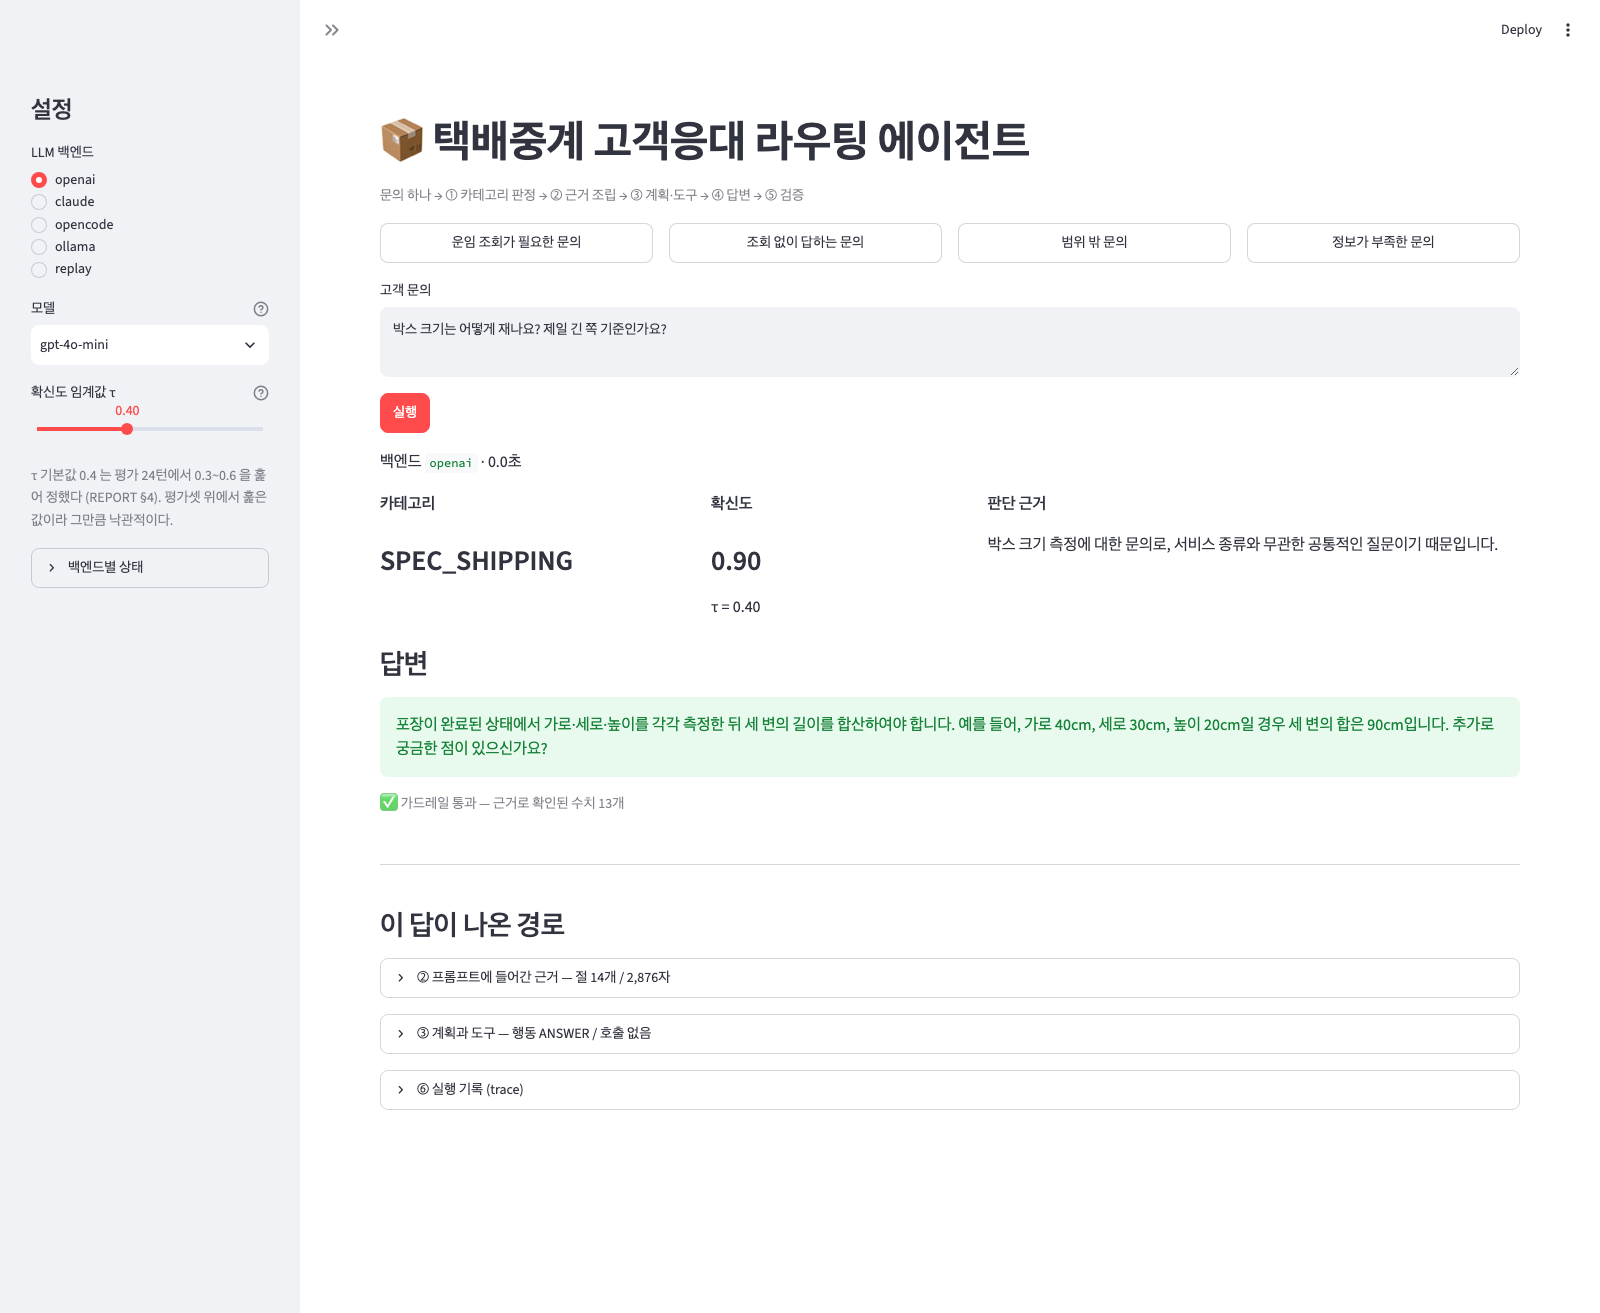
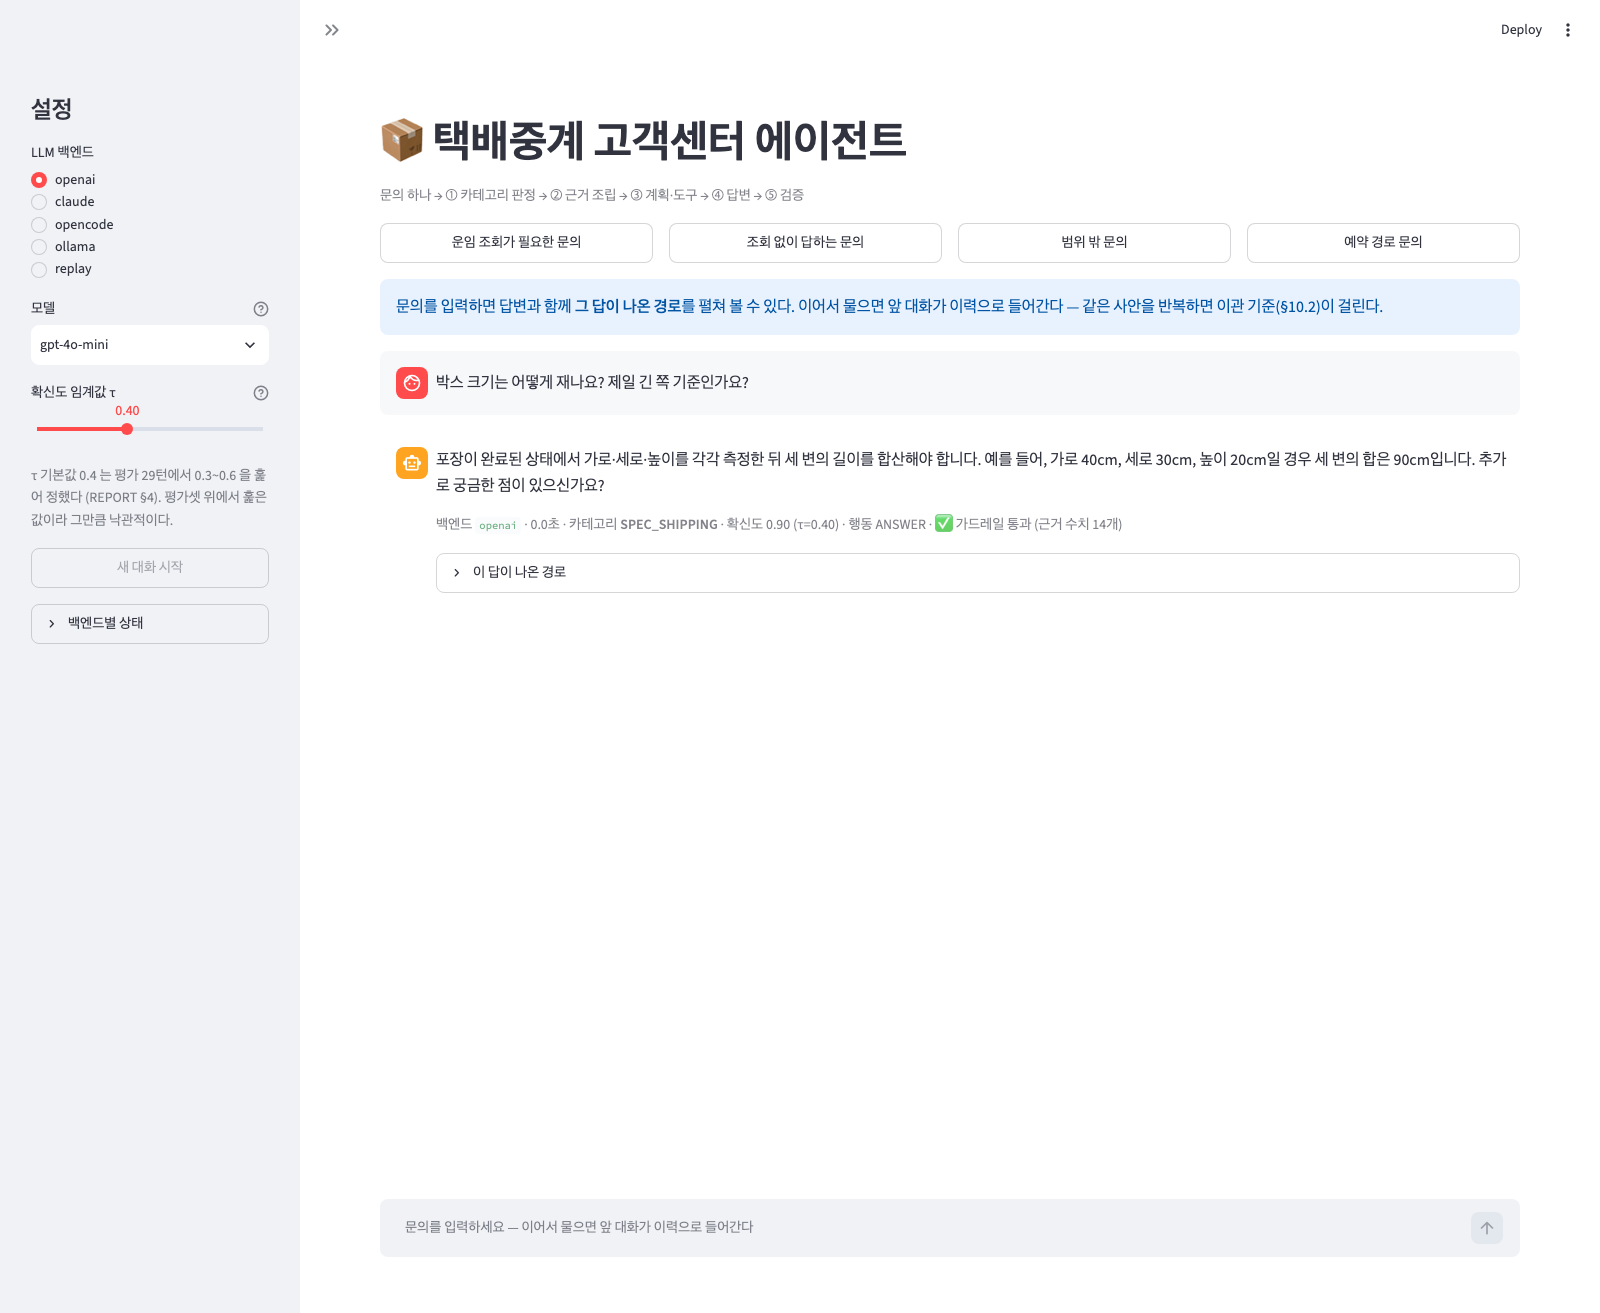
데모를 폼에서 채팅으로 바꾼다
두 번째 문의를 이어가려고 입력 후 실행을 누르면 화면이 통째로 새로 그려지고
방금 친 것이 사라졌다. 한 번 묻고 끝나는 폼에 멀티턴을 얹었기 때문이다.

st.chat_message / st.chat_input 으로 바꿨다. 앞선 턴은 답변과 "이 답이 나온
경로"까지 그대로 남고, 입력창은 아래에 고정되며, 새 답변만 아래에 붙는다.
예시 버튼도 입력창을 채우지 않고 그대로 보낸다 — 채웠다가 지우면 그것도
방금 친 것이 날아간 것처럼 보인다.

"새 대화 시작"은 사이드바로 옮겼다. 본문은 대화만 남는다.

브라우저로 두 턴을 이어 확인했다: 앞 턴이 남고, 후속 발화가 카테고리를 유지하며
(CVS_PICKUP), 캡처 스크립트도 새 화면에서 4장 모두 찍힌다.

diff --git a/app.py b/app.py
@@ -2,7 +2,13 @@
 
 화면의 목적은 "맞는 답을 냈다"가 아니라 **"이 답이 어디서 나왔는지 보인다"** 이다.
 그래서 프롬프트에 실제로 들어간 근거 절, 호출한 도구와 인자, 가드레일 판정을
-answer 옆에 같이 놓는다. 채점자가 한 화면에서 경로를 되짚을 수 있어야 한다.
+답변 바로 아래에 접어 둔다. 채점자가 한 화면에서 경로를 되짚을 수 있어야 한다.
+
+**채팅 화면이다.** 상담은 한 번 묻고 끝나지 않는다. 정책 §10.2 는 같은 사안을
+반복해 묻는 경우를 이관 조건으로 두는데, 매 턴을 첫 문의로 취급하면 그 기준이
+성립할 수가 없다. 앞선 턴은 화면에 그대로 남고 다음 판정의 이력으로 들어간다.
+입력창은 아래에 고정되고, 새 답변만 아래에 붙는다 — 폼처럼 화면이 통째로
+새로 그려지며 방금 친 것이 사라지지 않는다.
 
 폴백으로 돌았으면 숨기지 않고 배지로 드러낸다 (규율 ⑤).
 """
@@ -23,13 +29,13 @@ from routing_agent.tools import tool_menu
 
 load_dotenv()
 
-st.set_page_config(page_title="택배중계 고객응대 에이전트", page_icon="📦", layout="wide")
+st.set_page_config(page_title="택배중계 고객센터 에이전트", page_icon="📦", layout="wide")
 
 EXAMPLES = {
     "운임 조회가 필요한 문의": "롯데택배로 방문택배 보낼 건데 2kg에 60cm 이하예요. 얼마예요?",
     "조회 없이 답하는 문의": "박스 크기는 어떻게 재나요? 제일 긴 쪽 기준인가요?",
     "범위 밖 문의": "혹시 거기 채용 공고 있나요?",
-    "정보가 부족한 문의": "택배비가 얼마인가요?",
+    "예약 경로 문의": "택배 예약 어디서 해요? 처음이라 하나도 모르겠어요.",
 }
 
 
@@ -68,63 +74,127 @@ if choices:
 else:
     st.sidebar.caption("모델 목록을 읽지 못했다 (CLI 없음 또는 오프라인). 이름을 직접 적는다.")
     model = st.sidebar.text_input("모델", value="")
+
 threshold = st.sidebar.slider(
     "확신도 임계값 τ", min_value=0.0, max_value=1.0, value=DEFAULT_THRESHOLD, step=0.05,
     help="판정 확신도가 이 값 아래면 답변을 만들지 않고 담당자에게 넘긴다.",
 )
 st.sidebar.caption(
-    "τ 기본값 0.4 는 평가 24턴에서 0.3~0.6 을 훑어 정했다 (REPORT §4). "
+    "τ 기본값 0.4 는 평가 29턴에서 0.3~0.6 을 훑어 정했다 (REPORT §4). "
     "평가셋 위에서 훑은 값이라 그만큼 낙관적이다."
 )
+
+turns: list[dict] = st.session_state.setdefault("turns", [])
+
+if st.sidebar.button("새 대화 시작", use_container_width=True, disabled=not turns):
+    st.session_state["turns"] = []
+    st.session_state.pop("pending", None)
+    st.rerun()
 
 with st.sidebar.expander("백엔드별 상태"):
     for name in BACKENDS:
         st.write(f"- **{name}** — {status[name] or '사용 가능'}")
 
 
-# ---------------------------------------------------------------- 입력
+# ---------------------------------------------------------------- 머리말
 
 st.title("📦 택배중계 고객센터 에이전트")
 st.caption("문의 하나 → ① 카테고리 판정 → ② 근거 조립 → ③ 계획·도구 → ④ 답변 → ⑤ 검증")
 
-# URL 로도 받는다: ?q=문의&run=1 (&backend=openai)
-# 링크 하나로 같은 화면을 다시 띄울 수 있어야 캡처도 남기고 남에게 보여 주기도 쉽다.
-params = st.query_params
-url_question = params.get("q", "")
-autorun = params.get("run", "") in ("1", "true", "yes")
-if url_question and "question" not in st.session_state:
-    st.session_state["question"] = url_question
-
 cols = st.columns(len(EXAMPLES))
 for col, (label, text) in zip(cols, EXAMPLES.items()):
+    # 예시는 입력창을 채우는 대신 그대로 보낸다. 채워 놓고 지우면 방금 친 것이
+    # 날아간 것처럼 보이기 때문이다.
     if col.button(label, use_container_width=True):
-        st.session_state["question"] = text
+        st.session_state["pending"] = text
 
-# 대화 이력. 정책 §10.2 는 "동일 사안 3회 이상 반복 문의"를 이관 조건으로 두는데,
-# 매 턴을 첫 문의로 취급하면 그 조건이 성립할 수가 없다. 화면도 대화로 이어져야 한다.
-history: list[tuple[str, str]] = st.session_state.setdefault("history", [])
+if not turns:
+    st.info(
+        "문의를 입력하면 답변과 함께 **그 답이 나온 경로**를 펼쳐 볼 수 있다. "
+        "이어서 물으면 앞 대화가 이력으로 들어간다 — 같은 사안을 반복하면 이관 기준(§10.2)이 걸린다."
+    )
 
-if history:
-    with st.expander(f"이전 대화 {len(history) // 2}턴", expanded=True):
-        for role, text in history:
-            st.markdown(("🙋 **고객** — " if role == "customer" else "💬 **상담원** — ") + text)
-    if st.button("새 대화로 시작"):
-        st.session_state["history"] = []
-        st.session_state["question"] = ""
-        st.rerun()
 
-question = st.text_area(
-    "고객 문의" + (" (이어서)" if history else ""),
-    value=st.session_state.get("question", ""), height=90,
-    placeholder="예) 편의점택배로 제주도에 보낼 수 있나요?",
-)
-run = st.button("실행", type="primary", disabled=not question.strip())
+# ---------------------------------------------------------------- 한 턴 그리기
 
-if not (run or (autorun and question.strip())):
+
+def draw_detail(turn: dict) -> None:
+    """이 답이 어디서 나왔는지. 답변 아래에 접어 둔다."""
+    state, route = turn["state"], turn["route"]
+    verdict = state.get("verdict") or {}
+
+    badges = [f"백엔드 `{turn['backend']}`", f"{turn['elapsed']:.1f}초",
+              f"카테고리 **{route}** · 확신도 {turn['confidence']:.2f} (τ={turn['threshold']:.2f})",
+              f"행동 {state.get('action')}"]
+    if turn.get("backend_note"):
+        badges.append(f"⚠ {turn['backend_note']}")
+    if state.get("fallback"):
+        badges.append(f"⚠ **폴백** — `{state['fallback']}` 단계")
+    if verdict.get("ok"):
+        badges.append(f"✅ 가드레일 통과 (근거 수치 {verdict.get('grounded_count', 0)}개)")
+    st.caption(" · ".join(badges))
+    if verdict and not verdict.get("ok"):
+        st.error(f"❌ 근거 없는 수치: {verdict.get('unsupported')}")
+
+    with st.expander("이 답이 나온 경로"):
+        st.markdown(f"**① 판정** — {route} · 확신도 {turn['confidence']:.2f}\n\n{state.get('reason', '')}")
+        if turn["confidence"] < turn["threshold"] and state.get("action") == "ESCALATE":
+            st.info("확신도가 τ 아래라 답변을 만들지 않고 담당자에게 넘겼다.")
+        elif turn["confidence"] < turn["threshold"]:
+            st.info(f"확신도는 τ 아래지만 카테고리가 {route} 라 이관하지 않았다 — "
+                    "범위 밖 문의는 담당자 이관이 아니라 채널 안내로 끝낸다 (정책 §10.1).")
+
+        units = select_units(route)
+        st.markdown(f"**② 근거** — 절 {len(units)}개 / {sum(u.chars for u in units):,}자")
+        for unit in units:
+            with st.expander(f"{unit.title}  ({unit.chars:,}자)"):
+                st.markdown(unit.body)
+
+        st.markdown(f"**③ 계획과 도구** — 행동 {state.get('action')} / 호출 {turn['tools'] or '없음'}")
+        if state.get("ask"):
+            st.write("되물을 항목:", state["ask"])
+        calls = [c for m in state.get("messages", []) if isinstance(m, AIMessage) for c in (m.tool_calls or [])]
+        for call in calls:
+            st.markdown(f"`{call['name']}`")
+            st.json(call["args"])
+        for message in state.get("messages", []):
+            if isinstance(message, ToolMessage):
+                st.markdown(f"↳ `{message.name}` 결과")
+                st.code(str(message.content)[:2000])
+        if not calls:
+            st.caption("도구를 부르지 않았다. 이 카테고리에서 부를 수 있었던 도구:")
+            st.code(tool_menu(route))
+
+        st.markdown("**⑥ 실행 기록 (trace)**")
+        st.json(state.get("trace", []))
+
+
+for past in turns:
+    with st.chat_message("user"):
+        st.write(past["question"])
+    with st.chat_message("assistant"):
+        st.write(past["answer"])
+        draw_detail(past)
+
+
+# ---------------------------------------------------------------- 입력과 실행
+
+# URL 로도 받는다: ?q=문의&run=1 (&backend=openai). 링크 하나로 같은 화면을 다시
+# 띄울 수 있어야 캡처도 남기고 남에게 보여 주기도 쉽다. 새로고침마다 다시 보내지
+# 않도록 한 번만 보낸다.
+params = st.query_params
+if params.get("q") and params.get("run", "") in ("1", "true", "yes") and not st.session_state.get("url_sent"):
+    st.session_state["pending"] = params["q"]
+    st.session_state["url_sent"] = True
+
+typed = st.chat_input("문의를 입력하세요 — 이어서 물으면 앞 대화가 이력으로 들어간다")
+question = typed or st.session_state.pop("pending", None)
+
+if not question:
     st.stop()
 
-
-# ---------------------------------------------------------------- 실행
+with st.chat_message("user"):
+    st.write(question)
 
 try:
     llm = make_llm(choice, model or None, quiet=True)
@@ -132,84 +202,29 @@ except BackendError as exc:
     st.error(f"백엔드를 준비하지 못했다 — {exc}")
     st.stop()
 
+# 앞선 턴이 이력이 된다. 이것이 없으면 §10.2(반복 문의 이관)가 성립하지 않는다.
+history = [(role, text) for past in turns
+           for role, text in (("customer", past["question"]), ("agent", past["answer"]))]
+
 graph = build_graph(llm=llm, threshold=threshold)
-started = time.monotonic()
-with st.spinner(f"{graph.backend_name} 로 파이프라인을 돌리는 중…"):
-    state = graph.invoke(
-        {"question": question, "history": list(history), "messages": [], "trace": []}
-    )
-elapsed = time.monotonic() - started
-
-# 이번 턴을 이력에 쌓는다. 다음 문의는 이 대화의 연장으로 판정된다.
-st.session_state["history"] = [
-    *history, ("customer", question), ("agent", state.get("answer", ""))
-]
-st.session_state["question"] = ""
-
-route = state.get("route", "?")
-confidence = state.get("confidence", 0.0) or 0.0
-verdict = state.get("verdict") or {}
-tools_used = called_tools(state)
-
-badges = [f"백엔드 `{graph.backend_name}`", f"{elapsed:.1f}초"]
-if graph.backend_name != choice:
-    badges.append(f"⚠ `{choice}` 대신 돌았다")
-if state.get("fallback"):
-    badges.append(f"⚠ **폴백** — `{state['fallback']}` 단계")
-st.markdown(" · ".join(badges))
-
-# 1. 판정
-head = st.columns([1.2, 1, 2])
-# st.metric 은 폭이 좁으면 값을 잘라 버린다. 카테고리 이름이 잘리면 화면이
-# 증거 노릇을 못 하므로 텍스트로 쓴다.
-head[0].markdown(f"**카테고리**\n\n### {route}")
-head[1].markdown(f"**확신도**\n\n### {confidence:.2f}\n\nτ = {threshold:.2f}")
-head[2].markdown(f"**판단 근거**\n\n{state.get('reason', '')}")
-# 게이트가 실제로 넘겼을 때만 말한다. OTHER 는 확신도와 무관하게 통과하므로
-# (정책 §10.1 — 범위 밖은 이관이 아니라 채널 안내로 끝낸다) 여기서 걸리지 않는다.
-if confidence < threshold and state.get("action") == "ESCALATE":
-    st.info(f"확신도 {confidence:.2f} 가 τ={threshold:.2f} 아래라 답변을 만들지 않고 담당자에게 넘겼다.")
-elif confidence < threshold:
-    st.info(
-        f"확신도 {confidence:.2f} 는 τ 아래지만 카테고리가 {route} 라 이관하지 않았다 — "
-        "범위 밖 문의는 담당자 이관이 아니라 채널 안내로 끝낸다 (정책 §10.1)."
-    )
-
-# 4. 답변 — 화면에서는 결론을 먼저 보여 준다
-st.subheader("답변")
-st.success(state.get("answer", ""))
-
-# 5. 검증
-if verdict.get("ok"):
-    st.caption(f"✅ 가드레일 통과 — 근거로 확인된 수치 {verdict.get('grounded_count', 0)}개")
-else:
-    st.error(f"❌ 근거 없는 수치: {verdict.get('unsupported')}")
-
-st.divider()
-st.subheader("이 답이 나온 경로")
-
-# 2. 근거
-units = select_units(route)
-with st.expander(f"② 프롬프트에 들어간 근거 — 절 {len(units)}개 / {sum(u.chars for u in units):,}자"):
-    for unit in units:
-        with st.expander(f"{unit.title}  ({unit.chars:,}자)"):
-            st.markdown(unit.body)
-
-# 3. 계획과 도구
-with st.expander(f"③ 계획과 도구 — 행동 {state.get('action')} / 호출 {tools_used or '없음'}"):
-    if state.get("ask"):
-        st.write("되물을 항목:", state["ask"])
-    calls = [c for m in state.get("messages", []) if isinstance(m, AIMessage) for c in (m.tool_calls or [])]
-    for call in calls:
-        st.markdown(f"**{call['name']}**")
-        st.json(call["args"])
-    for message in state.get("messages", []):
-        if isinstance(message, ToolMessage):
-            st.markdown(f"↳ `{message.name}` 결과")
-            st.code(str(message.content)[:2000])
-    if not calls:
-        st.caption("도구를 부르지 않았다. 이 카테고리에서 부를 수 있었던 도구:")
-        st.code(tool_menu(route))
-
-with st.expander("⑥ 실행 기록 (trace)"):
-    st.json(state.get("trace", []))
+with st.chat_message("assistant"):
+    started = time.monotonic()
+    with st.spinner(f"{graph.backend_name} 로 파이프라인을 돌리는 중…"):
+        state = graph.invoke(
+            {"question": question, "history": history, "messages": [], "trace": []}
+        )
+    turn = {
+        "question": question,
+        "answer": state.get("answer", ""),
+        "state": state,
+        "route": state.get("route", "?"),
+        "confidence": state.get("confidence", 0.0) or 0.0,
+        "tools": called_tools(state),
+        "elapsed": time.monotonic() - started,
+        "backend": graph.backend_name,
+        "backend_note": f"`{choice}` 대신 돌았다" if graph.backend_name != choice else "",
+        "threshold": threshold,
+    }
+    st.session_state["turns"] = [*turns, turn]
+    st.write(turn["answer"])
+    draw_detail(turn)

diff --git a/README.md b/README.md
@@ -111,7 +111,7 @@ streamlit run app.py
 
 사이드바에서 백엔드·모델·확신도 임계값 τ 를 고른다. 본문은 답변만 보여 주지 않고 **프롬프트에 실제로 들어간 근거 절, 호출한 도구와 인자, 도구 결과, 가드레일 판정**을 함께 펼친다. 폴백으로 돌았으면 상단에 배지가 뜬다.
 
-**대화는 이어진다.** 이전 턴이 이력으로 쌓여 다음 판정에 들어가므로, 같은 사안을 반복해 물으면 §10.2 의 반복 문의 이관 기준이 실제로 걸린다. 처음부터 다시 하려면 "새 대화로 시작" 을 누른다.
+**채팅 화면이다.** 이전 턴이 화면에 남고 다음 판정의 이력으로 들어가므로, 같은 사안을 반복해 물으면 §10.2 의 반복 문의 이관 기준이 실제로 걸린다. 입력창은 아래에 고정되고 새 답변만 아래에 붙는다 — 폼이 아니라서 화면이 통째로 새로 그려지거나 입력이 사라지지 않는다. 처음부터 다시 하려면 사이드바의 "새 대화 시작" 을 누른다.
 
 ## 운영 — 약관·정책이 바뀌거나 택배사가 늘면
 

diff --git a/REPORT.md b/REPORT.md
@@ -289,7 +289,7 @@ graph LR
 | 답변 | 결론 |
 | 가드레일 판정 | 근거 없는 수치가 있으면 빨갛게 |
 | 백엔드·소요 시간·폴백 배지 | 어느 백엔드로 돌았는지, 폴백이었는지 |
-| 이전 대화 | 턴이 쌓여 다음 판정에 들어간다 — 반복 문의 이관(§10.2)이 화면에서도 성립한다 |
+| 이전 대화 | 채팅으로 쌓인다. 앞 턴이 다음 판정의 이력으로 들어가 반복 문의 이관(§10.2)이 화면에서도 성립한다 |
 
 **터미널 캡처와 화면 캡처는 역할이 다르다.** 터미널(`python -m routing_agent.evaluate …`)은 *수치가 어떻게 나왔는지*에 대한 증거이고, Streamlit 화면은 *한 건이 어떤 경로로 답이 됐는지*에 대한 증거다. 둘 다 있어야 "수치가 맞다"와 "동작이 맞다"를 각각 보일 수 있다.
 
